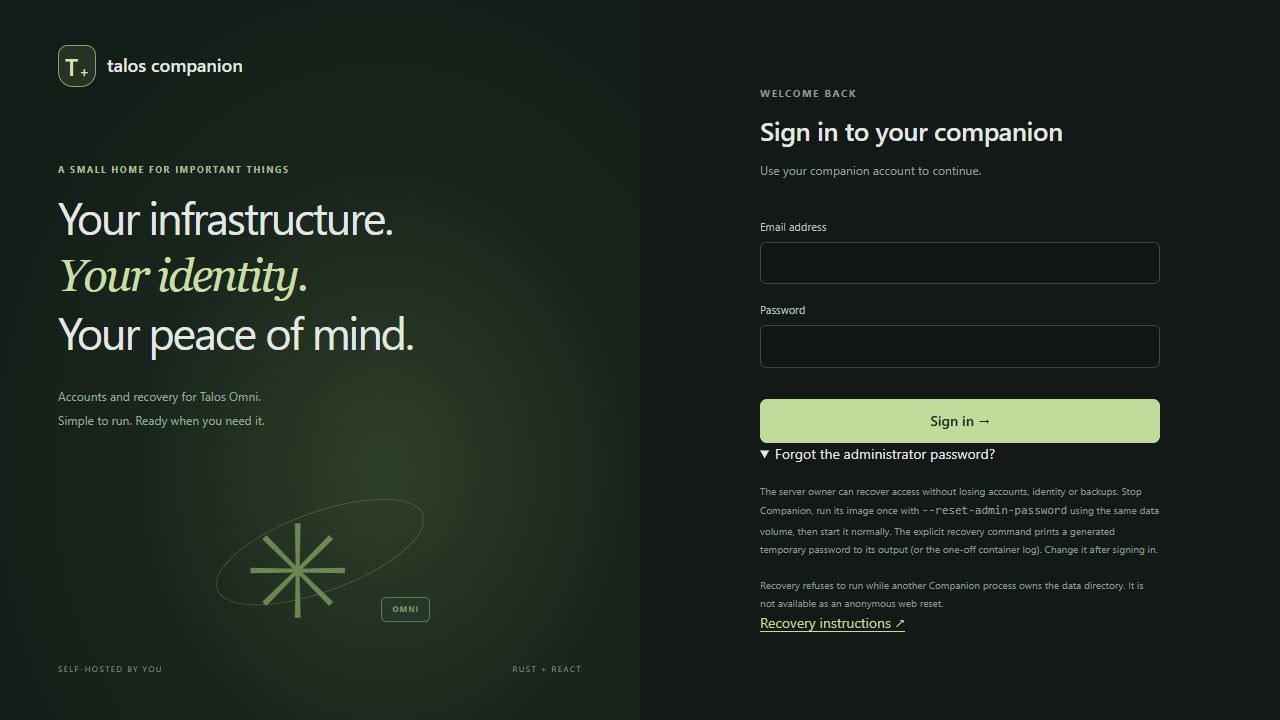
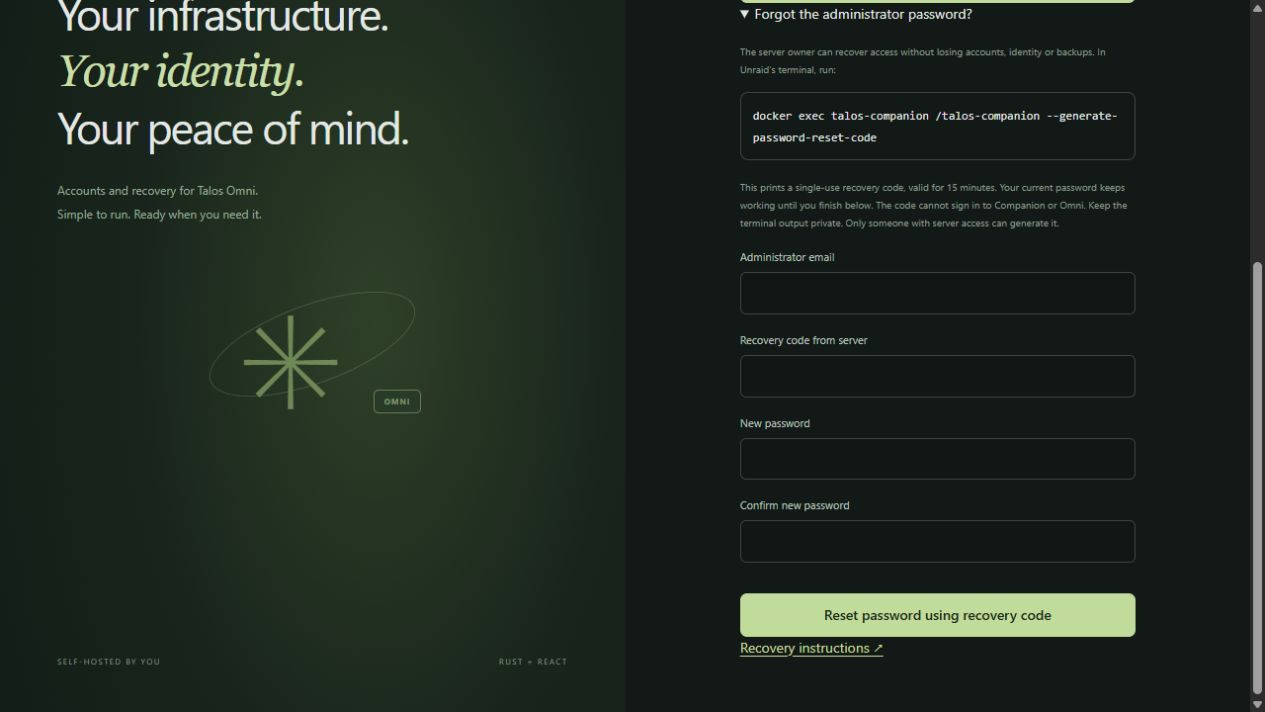
Prevent in-flight old-password login after recovery

diff --git a/src/auth.rs b/src/auth.rs
@@ -217,6 +217,21 @@ pub async fn login(
     let u = u
         .filter(|_| valid)
         .ok_or_else(|| Error(StatusCode::UNAUTHORIZED, "Invalid email or password".into()))?;
+    // A recovery/password change may complete while Argon2 is running. Hold the
+    // current store through session creation so an old password cannot create a
+    // fresh session after recovery has revoked existing sessions.
+    let guard = app.store.read().await;
+    if !guard.as_ref().is_some_and(|store| {
+        store
+            .users
+            .iter()
+            .any(|current| current.id == u.id && current.password_hash == u.password_hash)
+    }) {
+        return Err(Error(
+            StatusCode::UNAUTHORIZED,
+            "Invalid email or password".into(),
+        ));
+    }
     let token = secret();
     let mut m = app.memory.lock().await;
     m.sessions.retain(|_, s| s.expires > now());
@@ -228,6 +243,7 @@ pub async fn login(
         },
     );
     drop(m);
+    drop(guard);
     let secure = if app.public_url.starts_with("https:") {
         "; Secure"
     } else {
